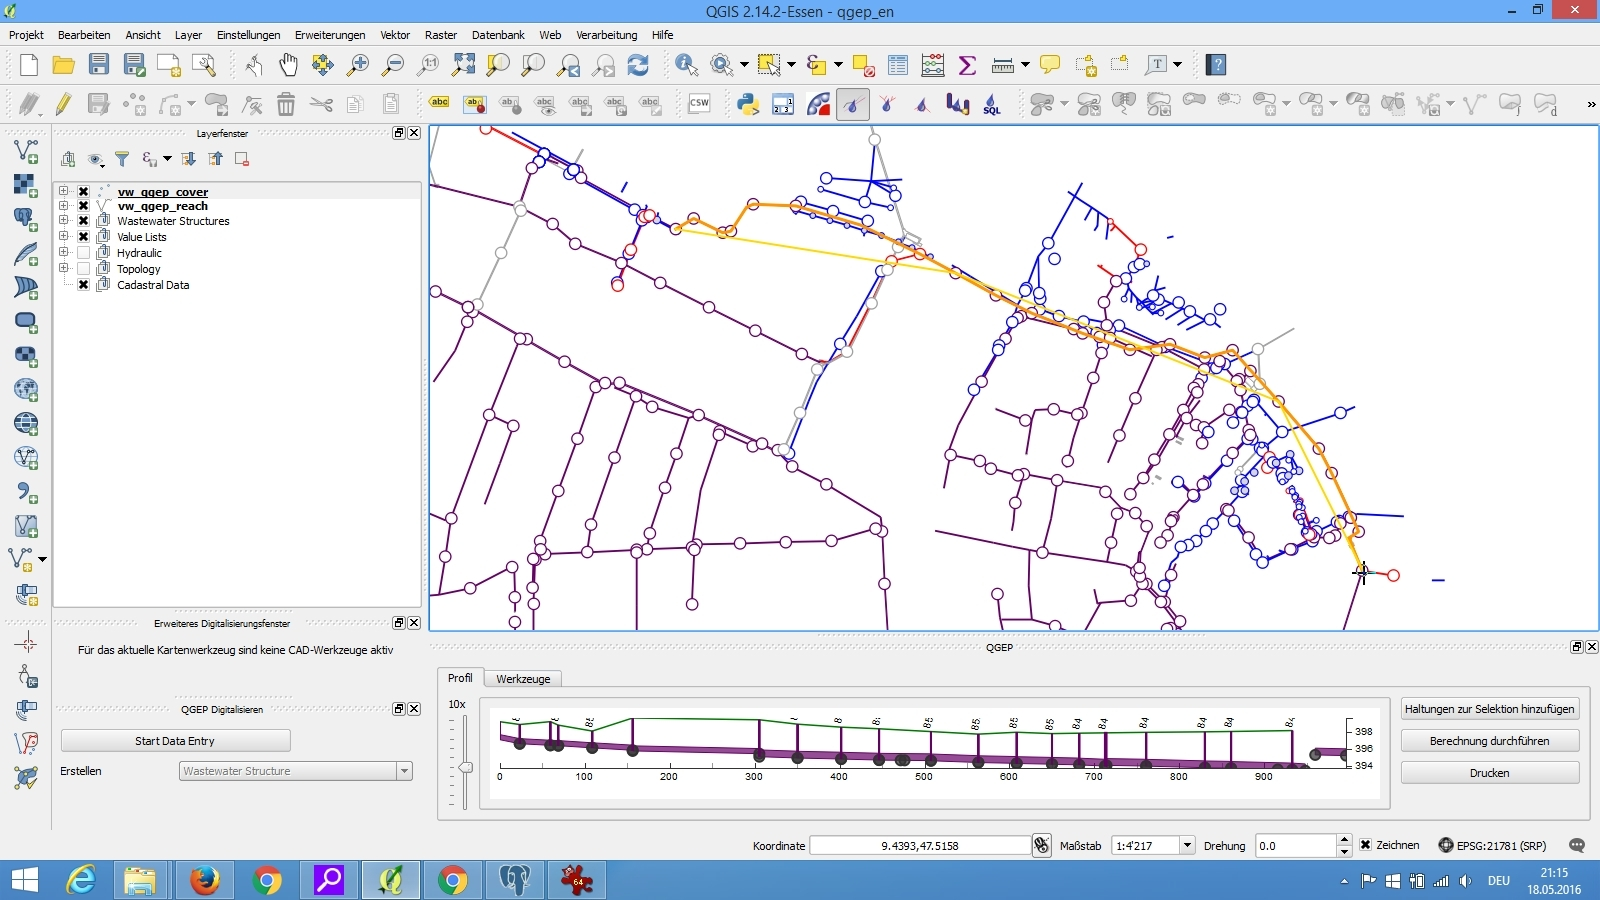
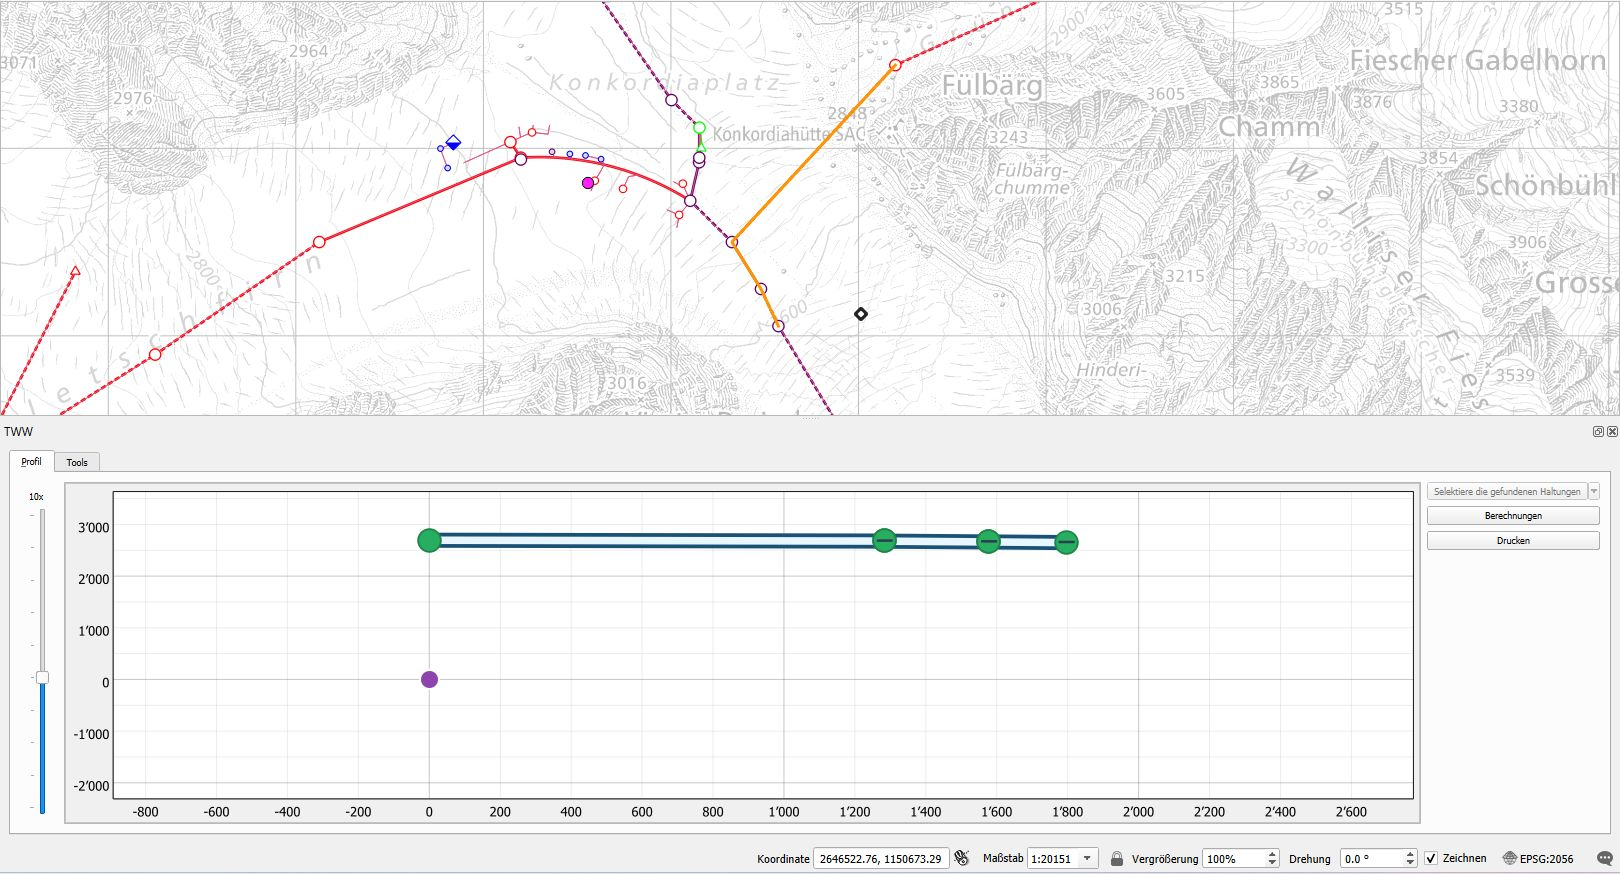
Add new documentation

diff --git a/docs/en/user-guide/length-profile/length_profile_new_index.rst b/docs/en/user-guide/length-profile/length_profile_new_index.rst
@@ -1,0 +1,38 @@
+Length profiles
+===============
+
+This represents a guide on how to choose a section and display a length profile.
+
+General
+-------
+
+TWW has a unique function to display length profiles. Choose the length profile button to start.
+
+.. figure:: images/profile_button_selected.jpg
+
+The length profile window opens.
+
+.. figure:: images/profile_lenght_profile_empty.jpg
+
+Select the **vw_tww_wastewater_structure** layer to select a starting point.
+
+.. figure:: images/profile_selection_start.jpg
+
+Then select a next manhole - it is not needed to be the direct next one. The tool automatically selects the manholes in between.
+You can repeat this several times. If there is no continuity you will get a warning. Right click to finish your selection.
+
+.. figure:: images/profile_selection.jpg
+
+In the profile window you now have the length profile. You can see detail info about manholes.
+If you hover over a manhole in the profile window you can see that the canvas correspondent gets highlighted in green.
+
+.. figure:: images/profile_connected_manhole.jpg
+
+Same goes for the reaches.
+
+.. figure:: images/profile_connected_reach.jpg
+
+Printing
+---------
+NOT YET IMPLEMENTED
+Select the **Print** button to send the profile to your selected printer. If you have installed a pdf printer you can save it as a pdf file.